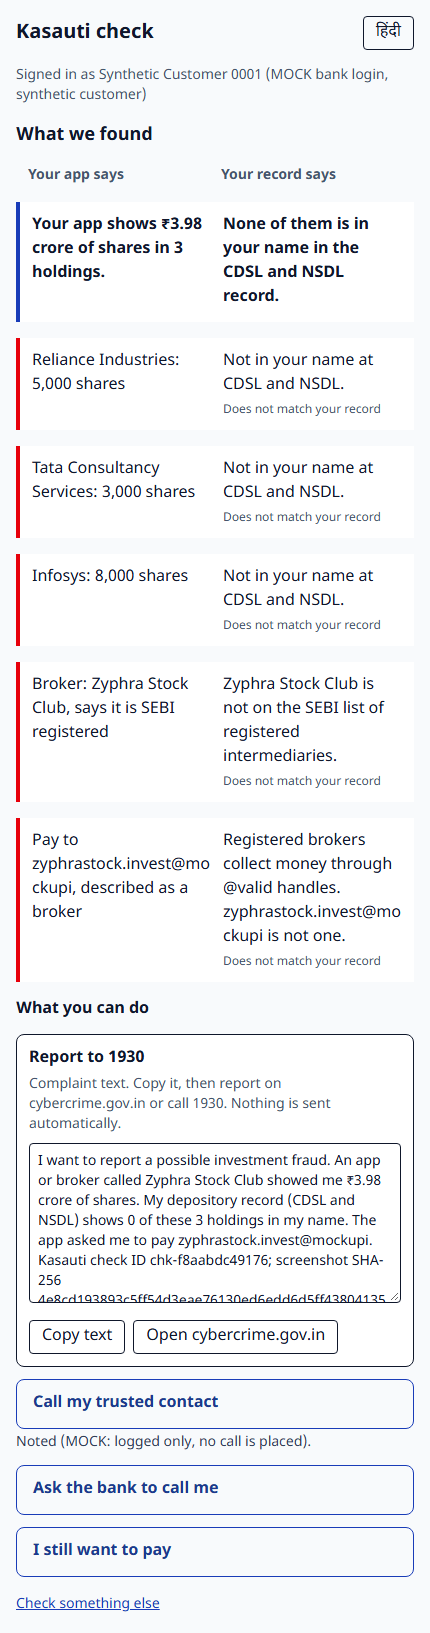
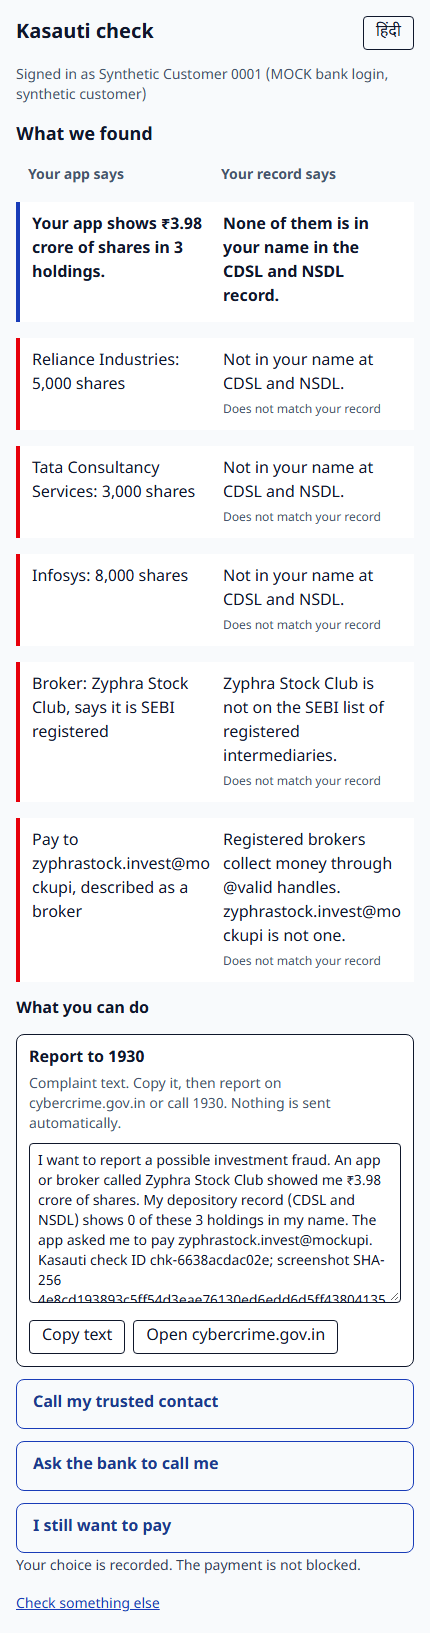
e2e: MATCHES and NO_RECORD screens for demo-002/003 in EN and HI; MOCK login by ?customer=

diff --git a/frontend/src/api.ts b/frontend/src/api.ts
@@ -20,8 +20,10 @@ export type CheckResult = {
 }
 export type Candidate = { isin: string; name: string }
 
-// MOCK bank login: the signed-in customer is synthetic case P0001 in data/synthetic/portfolios
-export const CUSTOMER = { id: 'SYN-C0001', name: 'Synthetic Customer 0001' }
+// MOCK bank login: ?customer=SYN-C0028 signs in as that synthetic customer from data/synthetic/portfolios
+const asked = new URLSearchParams(window.location.search).get('customer') ?? ''
+const id = /^SYN-C\d{4}$/.test(asked) ? asked : 'SYN-C0001'
+export const CUSTOMER = { id, name: `Synthetic Customer ${id.slice(-4)}` }
 
 async function body<T>(r: Response): Promise<T> {
   if (!r.ok) throw new Error(`${r.status} ${await r.text()}`)

diff --git a/scripts/e2e_bank_app.py b/scripts/e2e_bank_app.py
@@ -1,6 +1,6 @@
 """Drive the bank app through the full demo-001 flow in a real browser, against the running backend.
 
-Usage: python scripts/e2e_bank_app.py --lang en|hi [--offline] [--base http://localhost:5173]
+Usage: python scripts/e2e_bank_app.py --lang en|hi [--demo demo-001|demo-002|demo-003] [--offline] [--base http://localhost:5173]
 Needs the backend on :8000 and the frontend on :5173. Prints the visible result text and saves screenshots to
 docs/screens/. --offline aborts every browser request that is not to localhost (fonts, CDNs, anything) and
 fails if one was attempted; it also checks that the backend is in LLM_PROVIDER=cache mode.
@@ -18,7 +18,6 @@ from urllib.parse import urlparse
 from playwright.sync_api import sync_playwright
 
 ROOT = Path(__file__).resolve().parent.parent
-DEMO = ROOT / "data" / "demo_cache" / "demo-001.png"
 SCREENS = ROOT / "docs" / "screens"
 LOCAL = {"localhost", "127.0.0.1"}
 
@@ -45,8 +44,42 @@ def backend_in_cache_mode(base):
     return False
 
 
-def run(lang, offline, base):
+# what each demo's FR-8.4 screen must show; demo-001 keeps its original screenshot names
+EXPECT = {"demo-001": "CONTRADICTS", "demo-002": "MATCHES", "demo-003": "NO_RECORD"}
+
+
+def check_screen(expect, ui, text, count):
+    """FR-8.4 per outcome. Texts come from the same template file the UI uses."""
+    has = lambda key: ui[key] in text  # noqa: E731
+    if expect == "MATCHES":
+        return {
+            "confirmation shown": has("matches_note"),
+            "no alert (no 'does not match' row)": not has("outcome_CONTRADICTS"),
+            "no complaint / 1930 button": count("complaint") == 0 and not has("report_1930"),
+            "no trusted contact, no callback": count("act-trusted_contact") == count("act-bank_callback") == 0,
+        }
+    if expect == "NO_RECORD":
+        return {
+            "'we could not verify this' shown": has("no_record_title"),
+            "self-checks: CDSL easi, monthly CAS, SEBI Check": all(
+                has(k) for k in ("self_check_cdsl", "self_check_cas", "self_check_sebi")
+            ),
+            "optional bank callback offered": count("act-bank_callback") == 1,
+            "no complaint, no trusted contact": count("complaint") == count("act-trusted_contact") == 0,
+        }
+    return {
+        "complaint text pre-filled": count("complaint") == 1,
+        "trusted contact and callback offered": count("act-trusted_contact") == count("act-bank_callback") == 1,
+    }
+
+
+def run(lang, offline, base, demo):
     SCREENS.mkdir(parents=True, exist_ok=True)
+    customer = json.loads((ROOT / "data" / "demo_cache" / "demo_customers.json").read_text())[f"{demo}.png"]
+    ui = json.loads((ROOT / "backend" / "app" / "templates" / f"messages_{lang}.json").read_text(encoding="utf-8"))[
+        "ui"
+    ]
+    tag = lang if demo == "demo-001" else f"{demo}_{lang}"
     external = []
     with sync_playwright() as p:
         browser = p.chromium.launch()
@@ -60,43 +93,50 @@ def run(lang, offline, base):
                 return route.abort()
 
             page.route("**/*", guard)
-        page.goto(f"{base}/app")
+        page.goto(f"{base}/app?customer={customer}")
         if lang == "hi":
             page.click("[data-testid=lang-toggle]")
         page.click("[data-testid=check-button]")
-        page.set_input_files("[data-testid=shot-input]", str(DEMO))
+        page.set_input_files("[data-testid=shot-input]", str(ROOT / "data" / "demo_cache" / f"{demo}.png"))
         page.click("[data-testid=read-button]")
         page.wait_for_selector("[data-testid=confirm]")
         page.wait_for_function("!document.querySelector('[data-testid=continue]').disabled")
-        page.screenshot(path=str(SCREENS / f"confirm_{lang}.png"), full_page=True)
+        page.screenshot(path=str(SCREENS / f"confirm_{tag}.png"), full_page=True)
         page.click("[data-testid=continue]")
         page.fill("[data-testid=otp]", "123456")
-        page.screenshot(path=str(SCREENS / f"consent_{lang}.png"), full_page=True)
+        page.screenshot(path=str(SCREENS / f"consent_{tag}.png"), full_page=True)
         page.click("[data-testid=approve]")
         page.wait_for_selector("[data-testid=result]", timeout=60000)
-        page.click("[data-testid=act-trusted_contact]")
-        page.wait_for_function("document.querySelector('[data-testid=actions]').innerText.includes('MOCK')")
         text = page.inner_text("[data-testid=result]")
-        complaint = page.input_value("[data-testid=complaint]")
+        checks = check_screen(EXPECT[demo], ui, text, lambda tid: page.locator(f"[data-testid={tid}]").count())
+        complaint = page.input_value("[data-testid=complaint]") if EXPECT[demo] == "CONTRADICTS" else ""
+        page.click("[data-testid=act-still_pay]")
+        page.wait_for_selector(f"text={ui['still_pay_note']}")
+        checks["'I still want to pay' recorded, payment not blocked"] = True
+        text = page.inner_text("[data-testid=result]")
         fonts = page.evaluate("document.fonts.check('16px \"Noto Sans Devanagari\"', 'हिंदी')")
-        page.screenshot(path=str(SCREENS / f"result_{lang}.png"), full_page=True)
+        page.screenshot(path=str(SCREENS / f"result_{tag}.png"), full_page=True)
         browser.close()
-    print(f"=== visible result text ({lang}{', offline' if offline else ''}) ===\n{text}\n")
-    print(f"=== complaint text ===\n{complaint}\n")
-    print(f"Noto Sans Devanagari loaded: {fonts}; screenshots: docs/screens/*_{lang}.png")
-    ok = fonts and "1930" in text and complaint
+    print(f"=== {demo} ({customer}) visible result text ({lang}{', offline' if offline else ''}) ===\n{text}\n")
+    if complaint:
+        print(f"=== complaint text ===\n{complaint}\n")
+    checks["Noto Sans Devanagari loaded"] = fonts
     if offline:
-        cache = backend_in_cache_mode("http://localhost:8000")
-        print(f"backend LLM_PROVIDER=cache: {cache}; non-localhost requests attempted: {len(external)} {external}")
-        ok = ok and cache and not external
-    print("PASSED" if ok else "FAILED")
-    return 0 if ok else 1
+        checks["backend in LLM_PROVIDER=cache"] = backend_in_cache_mode("http://localhost:8000")
+        checks[f"no non-localhost requests ({len(external)})"] = not external
+    for name, ok in checks.items():
+        print(f"  [{'ok' if ok else 'FAIL'}] {EXPECT[demo]}: {name}")
+    print(f"screenshots: docs/screens/*_{tag}.png")
+    passed = all(checks.values())
+    print("PASSED" if passed else "FAILED")
+    return 0 if passed else 1
 
 
 if __name__ == "__main__":
     ap = argparse.ArgumentParser()
     ap.add_argument("--lang", choices=["en", "hi"], default="en")
+    ap.add_argument("--demo", choices=sorted(EXPECT), default="demo-001")
     ap.add_argument("--offline", action="store_true")
     ap.add_argument("--base", default="http://localhost:5173")
     a = ap.parse_args()
-    sys.exit(run(a.lang, a.offline, a.base))
+    sys.exit(run(a.lang, a.offline, a.base, a.demo))
